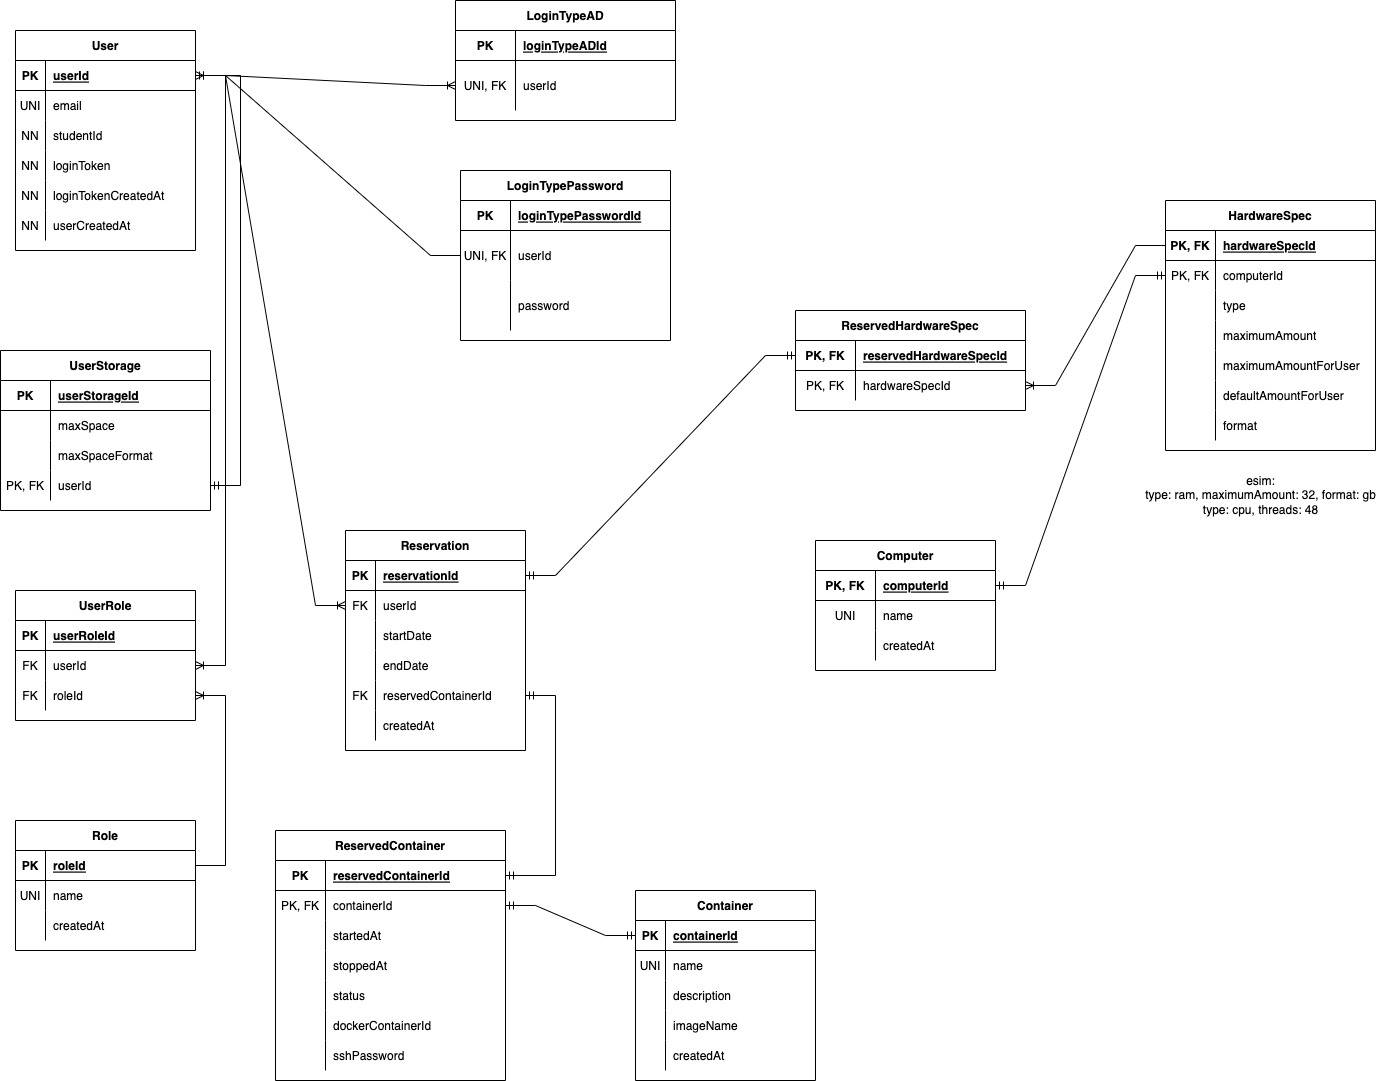
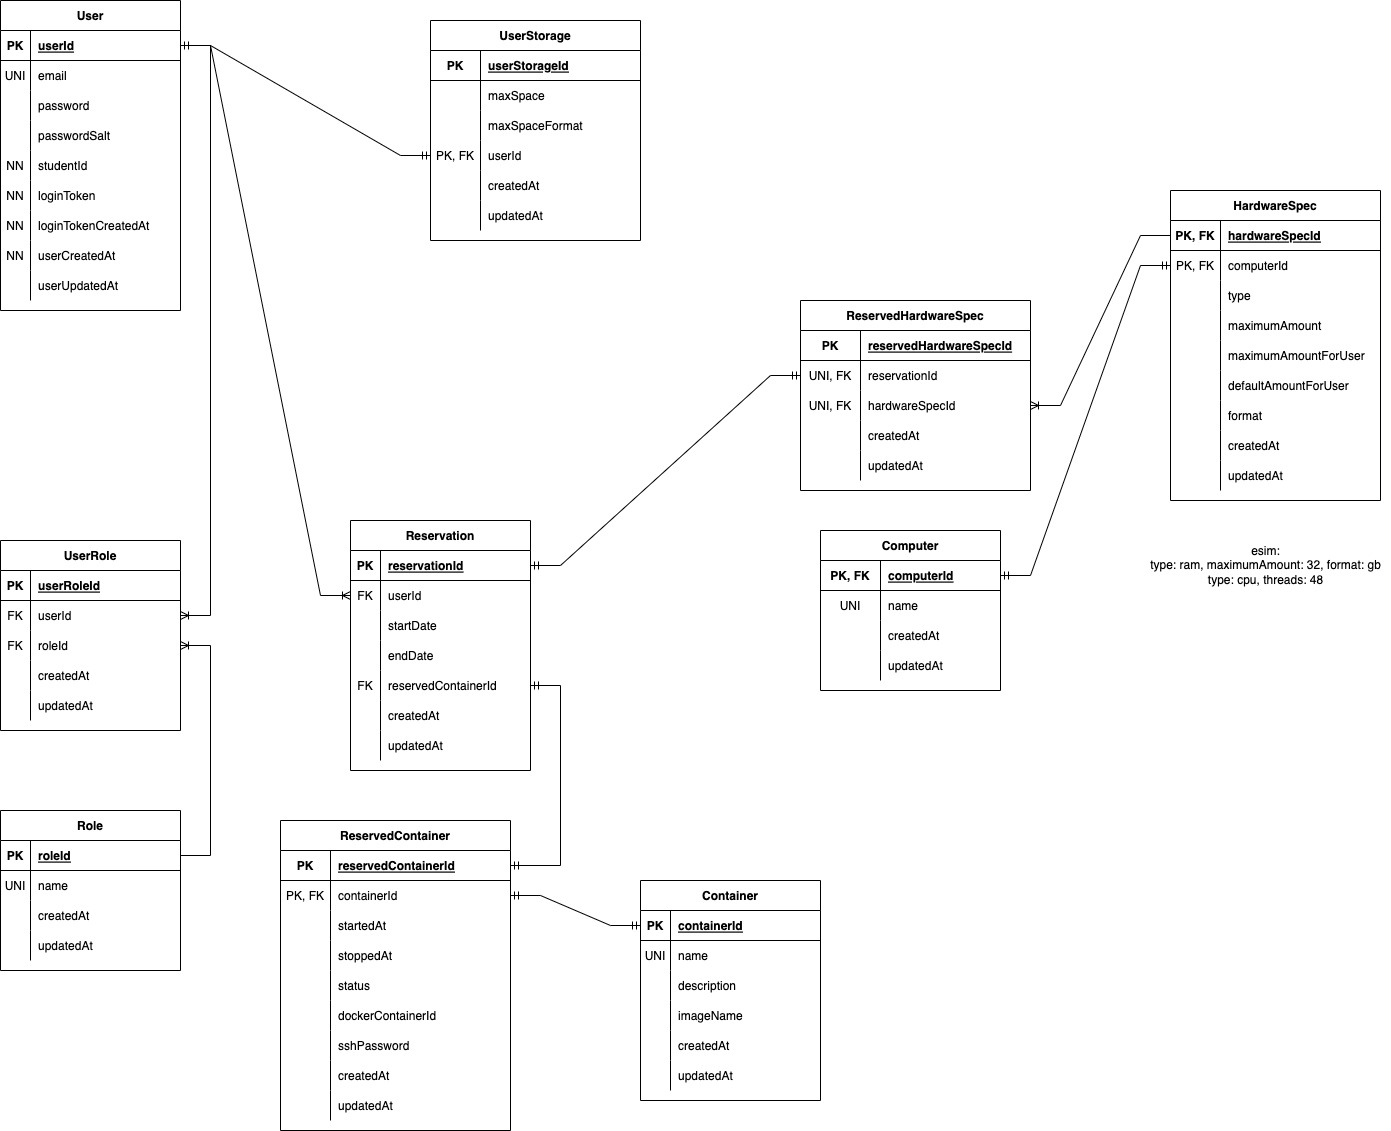
- Updated database drawing. - Updated database structure. - Added test data. - Updated hashing functionality. - Other small changes.

diff --git a/webapp/backend/database.py b/webapp/backend/database.py
@@ -6,34 +6,22 @@ Base = declarative_base()
 
 from sqlalchemy import Column, Integer, String, Float, ForeignKey, DateTime, UniqueConstraint
 from sqlalchemy.orm import relationship
+from sqlalchemy.sql import func
 
 class User(Base):
   __tablename__ = "User"
   userId = Column(Integer, primary_key = True, autoincrement = True)
   email = Column(String, nullable = False)
+  password = Column(String, nullable = True)
+  passwordSalt = Column(String, nullable = True)
   studentId = Column(String, nullable = True)
   loginToken = Column(String, nullable = True)
   loginTokenCreatedAt = Column(DateTime, nullable = True)
-  userCreatedAt = Column(DateTime, nullable = False)
-
-  loginTypeAd = relationship("LoginTypeAD", back_populates = "User")
-  loginTypePassword = relationship("LoginTypePassword", back_populates = "User")
-  userStorage = relationship("UserStorage", back_populates = "User")
-  roles = relationship("Role", secondary = "UserRole", back_populates = "User", single_parent=True)
-  reservations = relationship("Reservation", back_populates = "User")
-
-class LoginTypeAD(Base):
-  __tablename__ = "LoginTypeAD"
-  loginTypeADId = Column(Integer, primary_key = True, autoincrement = True)
-  userId = Column(ForeignKey('User.userId'), unique = True, nullable = False)
-  user = relationship("User", back_populates = "LoginTypeAD")
-
-class LoginTypePassword(Base):
-  __tablename__ = "LoginTypePassword"
-  loginTypePasswordId = Column(Integer, primary_key = True, autoincrement = True)
-  userId = Column(ForeignKey('User.userId'), unique = True, nullable = False)
-  password = Column(String, nullable = False)
-  user = relationship("User", back_populates = "LoginTypeAD")
+  userCreatedAt = Column(DateTime(timezone=True), server_default=func.now())
+  userUpdatedAt = Column(DateTime(timezone=True), onupdate=func.now())
+  userStorage = relationship("UserStorage", back_populates = "user")
+  roles = relationship("Role", secondary = "UserRole", back_populates = "users", single_parent=True)
+  reservations = relationship("Reservation", back_populates = "user")
 
 class UserStorage(Base):
   __tablename__ = "UserStorage"
@@ -42,20 +30,25 @@ class UserStorage(Base):
   maxSpace = Column(Float, nullable = False)
   maxSpaceFormat = Column(String, nullable = False)
   UniqueConstraint('userStorageId', 'userId', name='uniqueUserStorage')
-  user = relationship("User", back_populates = "LoginTypeAD")
+  user = relationship("User", back_populates = "userStorage")
+  createdAt = Column(DateTime(timezone=True), server_default=func.now())
+  updatedAt = Column(DateTime(timezone=True), onupdate=func.now())
 
 class Role(Base):
   __tablename__ = "Role"
   roleId = Column(Integer, primary_key = True, autoincrement = True)
   name = Column(String, nullable = False, unique = True)
-  createdAt = Column(DateTime, nullable = False)
-  users = relationship("User", secondary = "UserRole", back_populates = "Role", single_parent=True)
+  createdAt = Column(DateTime(timezone=True), server_default=func.now())
+  updatedAt = Column(DateTime(timezone=True), onupdate=func.now())
+  users = relationship("User", secondary = "UserRole", back_populates = "roles", single_parent=True)
 
 class UserRole(Base):
   __tablename__ = "UserRole"
   userRoleId = Column(Integer, primary_key = True, autoincrement = True)
   userId = Column(ForeignKey("User.userId"), nullable = False)
   roleId = Column(ForeignKey("Role.roleId"), nullable = False)
+  createdAt = Column(DateTime(timezone=True), server_default=func.now())
+  updatedAt = Column(DateTime(timezone=True), onupdate=func.now())
 
 class Container(Base):
   __tablename__ = "Container"
@@ -63,8 +56,9 @@ class Container(Base):
   imageName = Column(String, unique = True, nullable = False)
   name = Column(String, nullable = False)
   description = Column(String, nullable = True)
-  createdAt = Column(DateTime, nullable = False)
-  ReservedContainers = relationship("ReservedContainer", back_populates = "Container")
+  createdAt = Column(DateTime(timezone=True), server_default=func.now())
+  updatedAt = Column(DateTime(timezone=True), onupdate=func.now())
+  reservedContainers = relationship("ReservedContainer", back_populates = "container")
 
 class ReservedContainer(Base):
   __tablename__ = "ReservedContainer"
@@ -75,7 +69,10 @@ class ReservedContainer(Base):
   status = Column(String, nullable = True)
   dockerContainerId = Column(String)
   sshPassword = Column(String, nullable = False)
-  container = relationship("Container", back_populates = "ReservedContainer")
+  reservation = relationship("Reservation", back_populates = "reservedContainer")
+  container = relationship("Container", back_populates = "reservedContainers")
+  createdAt = Column(DateTime(timezone=True), server_default=func.now())
+  updatedAt = Column(DateTime(timezone=True), onupdate=func.now())
 
 class Reservation(Base):
   __tablename__ = "Reservation"
@@ -84,17 +81,19 @@ class Reservation(Base):
   userId = Column(ForeignKey("User.userId"), nullable = False)
   startDate = Column(DateTime, nullable = False)
   endDate = Column(DateTime, nullable = False)
-  createdAt = Column(DateTime, nullable = False)
-  user = relationship("User", back_populates = "Reservation")
-  reservedContainer = relationship("ReservedContainer", back_populates = "Reservation")
-  reservedHardwareSpecs = relationship("HardwareSpec", secondary = "ReservedHardwareSpec", back_populates = "Reservation", single_parent = True)
+  createdAt = Column(DateTime(timezone=True), server_default=func.now())
+  updatedAt = Column(DateTime(timezone=True), onupdate=func.now())
+  user = relationship("User", back_populates = "reservations")
+  reservedContainer = relationship("ReservedContainer", back_populates = "reservation")
+  reservedHardwareSpecs = relationship("HardwareSpec", secondary = "ReservedHardwareSpec", back_populates = "reservations", single_parent = True)
 
 class Computer(Base):
   __tablename__ = "Computer"
   computerId = Column(Integer, primary_key = True, autoincrement = True)
   name = Column(String, nullable = False, unique = True)
-  createdAt = Column(DateTime, nullable = False)
-  hardwareSpecs = relationship("HardwareSpec", back_populates = "Computer")
+  createdAt = Column(DateTime(timezone=True), server_default=func.now())
+  updatedAt = Column(DateTime(timezone=True), onupdate=func.now())
+  hardwareSpecs = relationship("HardwareSpec", back_populates = "computer")
 
 class HardwareSpec(Base):
   __tablename__ = "HardwareSpec"
@@ -105,8 +104,10 @@ class HardwareSpec(Base):
   maximumAmountForUser = Column(Float, nullable = False)
   defaultAmountForUser = Column(Float, nullable = False)
   format = Column(String, nullable = False)
-  computer = relationship("Computer", back_populates = "HardwareSpec")
-  reservations = relationship("Reservation", secondary = "ReservedHardwareSpec", back_populates = "HardwareSpec", single_parent = True)
+  computer = relationship("Computer", back_populates = "hardwareSpecs")
+  reservations = relationship("Reservation", secondary = "ReservedHardwareSpec", back_populates = "reservedHardwareSpecs", single_parent = True)
+  createdAt = Column(DateTime(timezone=True), server_default=func.now())
+  updatedAt = Column(DateTime(timezone=True), onupdate=func.now())
 
 class ReservedHardwareSpec(Base):
   __tablename__ = "ReservedHardwareSpec"
@@ -114,6 +115,8 @@ class ReservedHardwareSpec(Base):
   reservationId = Column(ForeignKey("Reservation.reservationId"), nullable = False)
   hardwareSpecId = Column(ForeignKey("HardwareSpec.hardwareSpecId"), nullable = False)
   UniqueConstraint('reservationId', 'hardwareSpecId', name='uniqueHardwareSpec')
+  createdAt = Column(DateTime(timezone=True), server_default=func.now())
+  updatedAt = Column(DateTime(timezone=True), onupdate=func.now())
 
 # Create the tables
 Base.metadata.create_all(engine)

diff --git a/webapp/backend/routes/api.py b/webapp/backend/routes/api.py
@@ -1,5 +1,65 @@
 from fastapi import APIRouter
 from endpoints import user
+from settings import settings
+from helpers.auth import hashPassword, isCorrectPassword
+from database import session, User, Role, Computer, HardwareSpec, UserStorage
 
 router = APIRouter()
 router.include_router(user.router)
+
+# Run code here when server starts
+
+# Add test data if running in development mode
+if settings.app["production"] == False:
+  print("Running server in development mode")
+
+  # Admin role
+  adminRole = session.query(Role).filter( Role.name == "admin" ).first()
+  if adminRole is None:
+    print("Creating test data: admin role")
+    session.add(Role(
+      name = "admin"
+    ))
+    session.commit()
+  
+  # Admin user
+  adminUser = session.query(User).filter( User.email == "aiserveradmin@samk.fi" ).first()
+  if adminUser is None:
+    print("Creating test data: admin user")
+    hash = hashPassword("test")
+    adminUser = User(
+      email = "aiserveradmin@samk.fi",
+      password = hash["hashedPassword"],
+      passwordSalt = hash["salt"]
+    )
+    adminRole = session.query(Role).filter( Role.name == "admin" ).first()
+    adminUser.roles.append(adminRole)
+    adminUser.userStorage.append(UserStorage( maxSpace = "10000", maxSpaceFormat = "mb" ))
+    session.add(adminUser)
+    session.commit()
+  
+  # Normal User
+  normalUser = session.query(User).filter( User.email == "aiserveruser@samk.fi" ).first()
+  if normalUser is None:
+    print("Creating test data: normal user")
+    hash = hashPassword("test")
+    normalUser = User(
+      email = "aiserveruser@samk.fi",
+      password = hash["hashedPassword"],
+      passwordSalt = hash["salt"]
+    )
+    normalUser.userStorage.append(UserStorage( maxSpace = "5000", maxSpaceFormat = "mb" ))
+    session.add(normalUser)
+    session.commit()
+
+  # Computer
+  computer = session.query(Computer).filter( Computer.name == "aiserver" ).first()
+  if computer is None:
+    computer = Computer( name = "aiserver" )
+    session.add(computer)
+    session.commit()
+
+  # Hardware Specs for computer
+
+  # Container
+  

diff --git a/webapp/backend/helpers/auth.py b/webapp/backend/helpers/auth.py
@@ -12,17 +12,17 @@ def IsLoggedIn(email, token):
   return False
 
 # Taken from here: https://stackoverflow.com/questions/9594125/salt-and-hash-a-password-in-python/18488878#18488878
-def hash_new_password(password: str) -> Tuple[bytes, bytes]:
+def hashPassword(password: str) -> Tuple[bytes, bytes]:
   """
   Hash the provided password with a randomly-generated salt and return the
   salt and hash to store in the database.
   """
   salt = os.urandom(16)
   pw_hash = hashlib.pbkdf2_hmac('sha256', password.encode(), salt, 100000)
-  return salt, pw_hash
+  return { "salt": salt, "hashedPassword": pw_hash }
 
 # Taken from here: https://stackoverflow.com/questions/9594125/salt-and-hash-a-password-in-python/18488878#18488878
-def is_correct_password(salt: bytes, pw_hash: bytes, password: str) -> bool:
+def isCorrectPassword(salt: bytes, pw_hash: bytes, password: str) -> bool:
   """
   Given a previously-stored salt and hash, and a password provided by a user
   trying to log in, check whether the password is correct.
@@ -31,8 +31,9 @@ def is_correct_password(salt: bytes, pw_hash: bytes, password: str) -> bool:
     pw_hash,
     hashlib.pbkdf2_hmac('sha256', password.encode(), salt, 100000)
   )
+
 # Example usage:
-#salt, pw_hash = hash_new_password('correct horse battery staple')
-#assert is_correct_password(salt, pw_hash, 'correct horse battery staple')
-#assert not is_correct_password(salt, pw_hash, 'Tr0ub4dor&3')
-#assert not is_correct_password(salt, pw_hash, 'rosebud')
+#hash = hashPassword('correct horse battery staple')
+#assert isCorrectPassword(salt, pw_hash, 'correct horse battery staple')
+#assert not isCorrectPassword(salt, pw_hash, 'Tr0ub4dor&3')
+#assert not isCorrectPassword(salt, pw_hash, 'rosebud')

diff --git a/webapp/backend/endpoints/responses/user.py b/webapp/backend/endpoints/responses/user.py
@@ -1,5 +1,6 @@
 from database import User, session
 from helpers.server import Response
+from settings import settings
 
 def login(username, password):
   '''
@@ -12,14 +13,16 @@ def login(username, password):
         If login was succesfull, will return back the generated token that user can use further on.
         Otherwise tells that the username or password was invalid.
   '''
-  # TODO: Check user login method, password or AD, also settings.login["allow_password_login"]
-  user = session.query(User).filter( User.email == username, User.password == password ).first()
+  if settings.login["allow_password_login"] == False:
+    return Response(False, "Password logins are disabled.")
+  user = session.query(User).first()
+  #user = session.query(User).filter( User.email == username, User.password == password ).first()
   if user:
     return Response(True, "Login succesfull.", { "loginToken": "gen" })
   else:
     return Response(False, "Email address or password was invalid.", { "loginToken": None })
 
-def check_token(token):
+def checkToken(token):
   ''' Checks that the given token is valid and has not expired.
 
       Parameters:
@@ -31,7 +34,7 @@ def check_token(token):
   '''
   return Response(False, "User is not currently logged in.")
 
-def create_password(password):
+def createPassword(password):
   ''' For generating encrypted password for a user
       Parameters:
         password: password

diff --git a/webapp/backend/endpoints/user.py b/webapp/backend/endpoints/user.py
@@ -17,11 +17,11 @@ async def login(credentials: HTTPBasicCredentials = Depends(security)):
 
 @router.get("/check_token")
 async def login(credentials: HTTPBasicCredentials = Depends(security)):
-  return user.check_token(credentials.password)
+  return user.checkToken(credentials.password)
 
 @router.get("/create_password")
 async def login(credentials: HTTPBasicCredentials = Depends(security)):
-  return user.create_password(credentials.password)
+  return user.createPassword(credentials.password)
 
 
 
